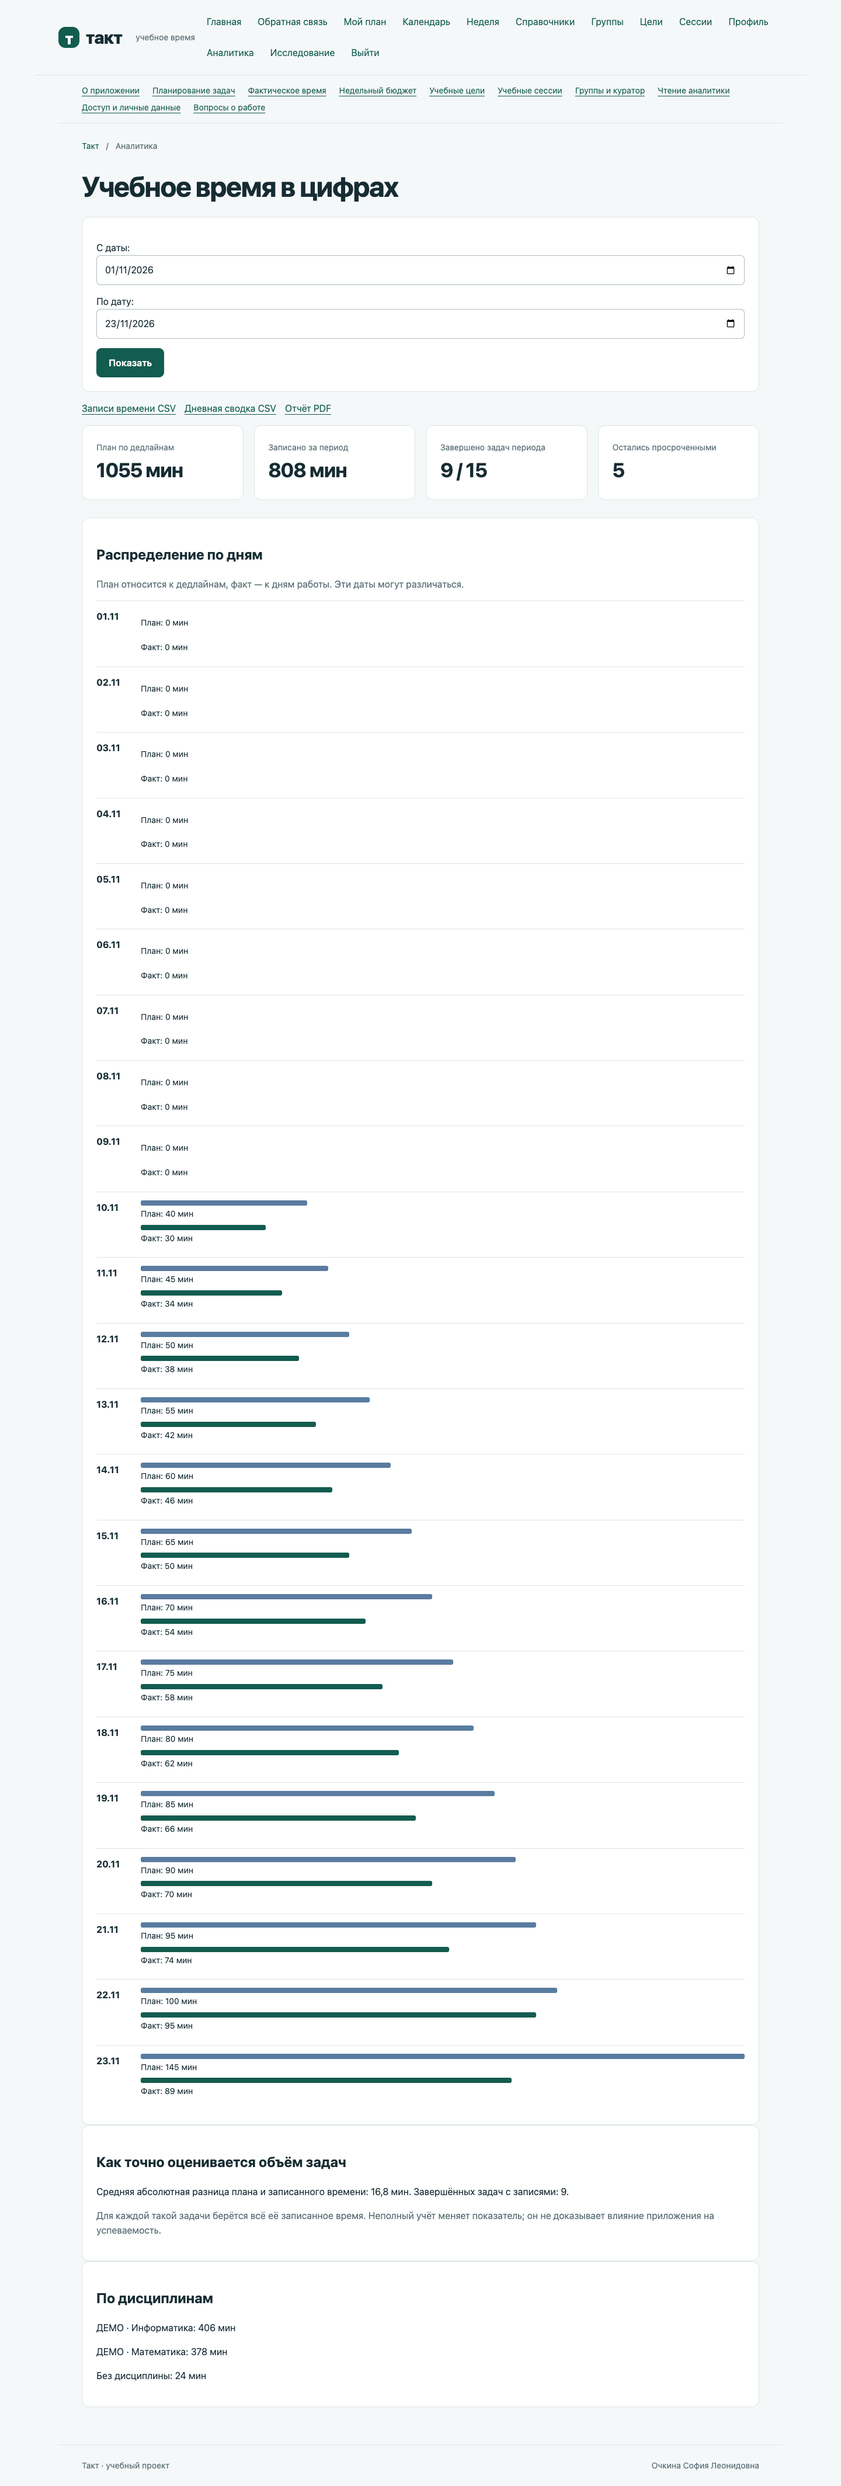
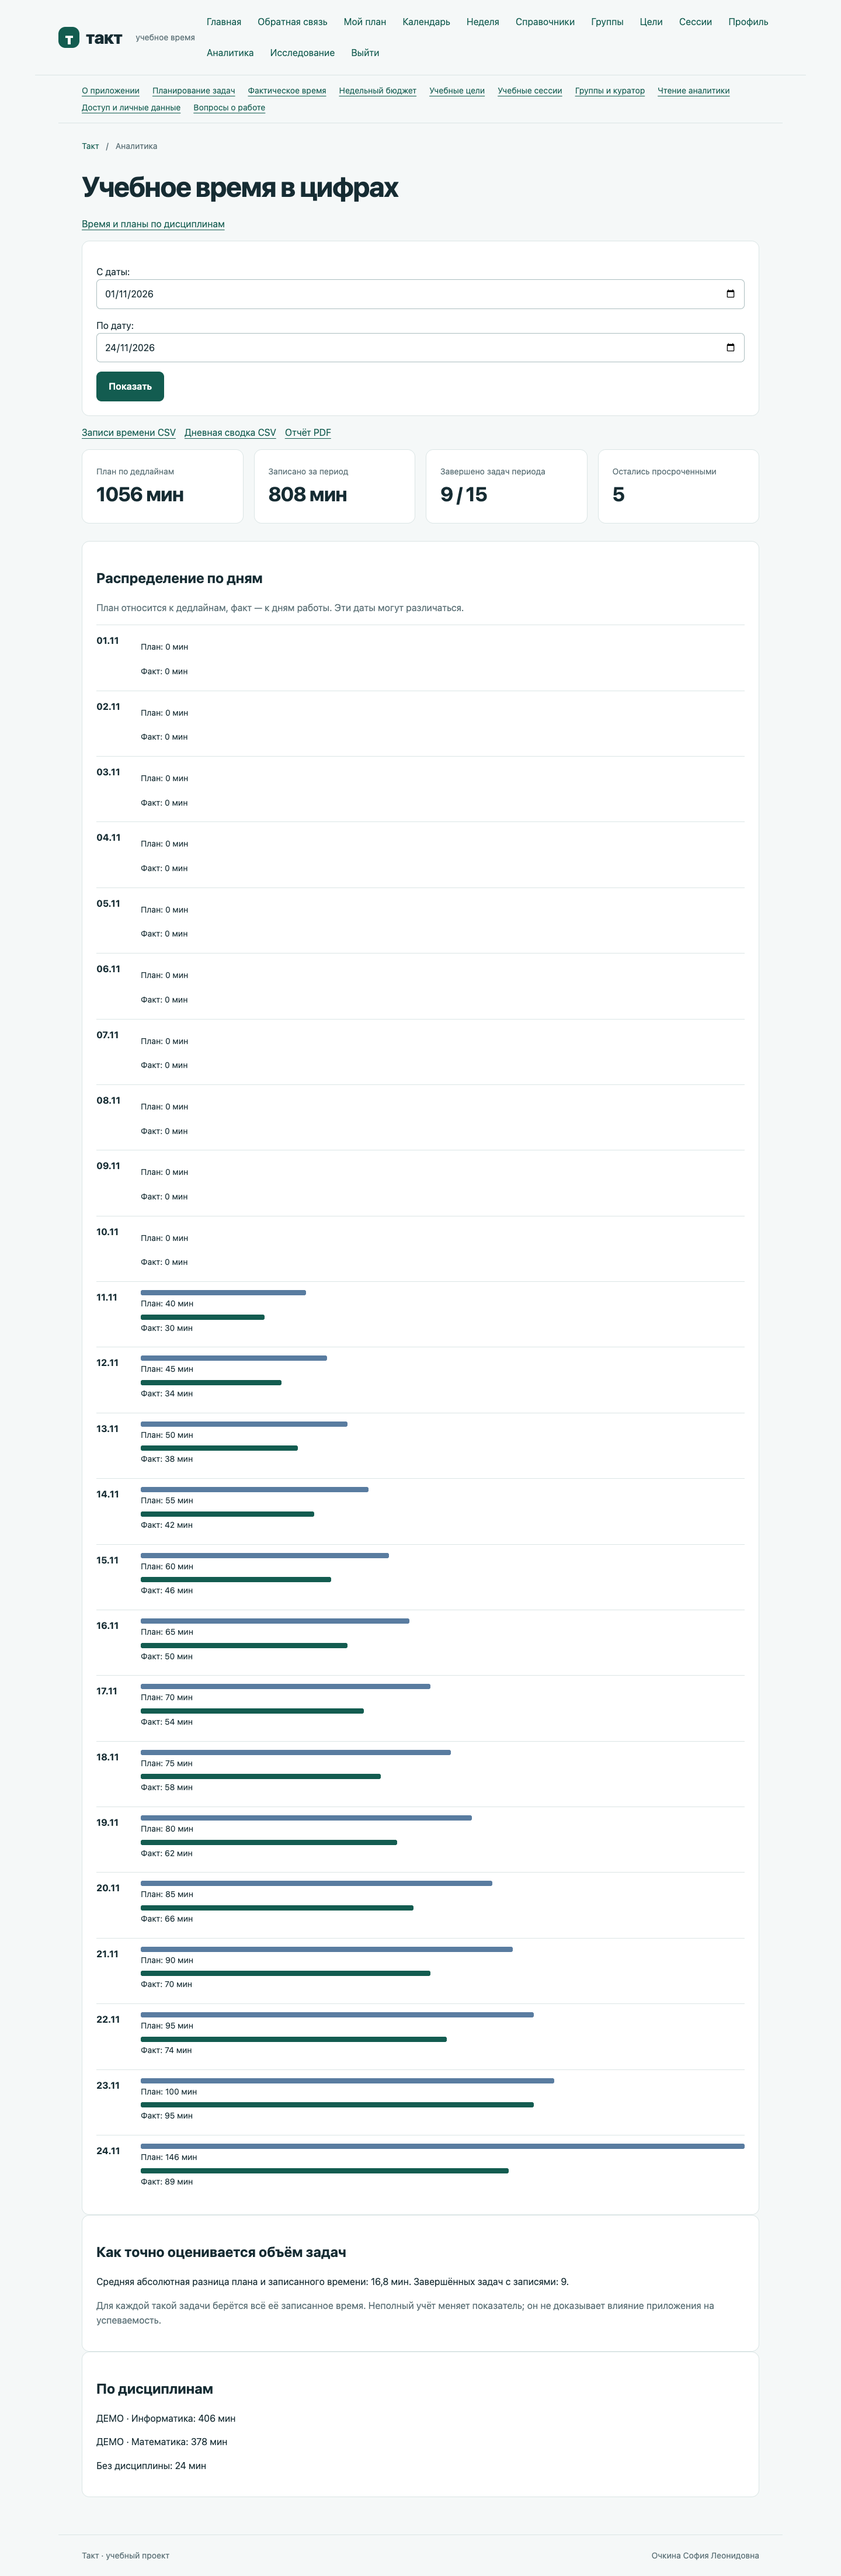
Проверить историю наблюдений и распределение времени в Chrome

diff --git a/planner/templates/planner/comparison.html b/planner/templates/planner/comparison.html
@@ -6,8 +6,9 @@
 {% if report %}<p>{% for period in report.periods %}{{ period.start|date:'d.m.Y' }}–{{ period.end|date:'d.m.Y' }}{% if not forloop.last %} и {% endif %}{% endfor %}</p>
 <a href="?{{ export_query }}">Скачать данные сравнения JSON</a>
 <div class="table-wrap" tabindex="0" role="region" aria-label="Сравнение; таблица прокручивается по горизонтали"><table><thead><tr><th>Показатель</th><th>Первый период</th><th>Второй период</th><th>Изменение</th><th>Изменение, %</th></tr></thead><tbody>{% for row in report.rows %}<tr><td>{{ row.label }}</td><td>{{ row.before|floatformat:2 }}</td><td>{{ row.after|floatformat:2 }}</td><td>{{ row.delta|floatformat:2 }}</td><td>{% if row.relative_percent is None %}Не определено: первое значение 0{% else %}{{ row.relative_percent|floatformat:2 }}{% endif %}</td></tr>{% endfor %}</tbody></table></div>
-<h2>События статусов задач</h2>
+<section class="card" id="status-history"><h2>События статусов задач</h2>
 <p>{% if report.history.first_observed_at %}Первый сохранённый переход: {{ report.history.first_observed_at|date:'d.m.Y H:i:s' }}.{% else %}Журнал пока не содержит переходов.{% endif %} Более ранняя история не восстановлена. Считаются переходы, включая повторные завершения одной задачи; удаление задачи не стирает событие.</p>
 <div class="table-wrap" tabindex="0" role="region" aria-label="Покрытие журнала статусов"><table><thead><tr><th>Период</th><th>Наблюдение</th><th>Завершений</th><th>Возвратов в план</th></tr></thead><tbody>{% for period in report.history.periods %}<tr><td>{{ period.start|date:'d.m.Y' }}–{{ period.end|date:'d.m.Y' }}</td><td>{{ period.coverage_label }}</td><td>{{ period.completions|default_if_none:'Нет данных' }}</td><td>{{ period.reopenings|default_if_none:'Нет данных' }}</td></tr>{% endfor %}</tbody></table></div>
 {% if report.history.comparable %}<p>Изменение завершений: {{ report.history.deltas.completions }}; возвратов в план: {{ report.history.deltas.reopenings }}.</p>{% else %}<p>Разница переходов не рассчитывается: полное наблюдение обоих периодов не подтверждено.</p>{% endif %}
+</section>
 <p>Отсутствие записи не доказывает отсутствие работы. Дедлайны и оценки задач показаны в их текущем состоянии, а не по историческому снимку. Различия могут объясняться нагрузкой, дисциплинами и полнотой учёта. Эти данные не устанавливают причинный эффект приложения и не измеряют качество знаний.</p>{% endif %}{% endblock %}

diff --git a/scripts/verify_browser.py b/scripts/verify_browser.py
@@ -1,5 +1,7 @@
 """Реальный Chrome в изолированной копии приложения с вымышленными данными."""
 import argparse
+import csv
+import io
 from datetime import date, datetime, timedelta
 import re
 from zoneinfo import ZoneInfo
@@ -109,22 +111,50 @@ def verify(app_python, output):
                     page.get_by_role('link',name='История статусов задач',exact=True).click();page.wait_for_url('**/tasks/history/')
                     assert page.get_by_role('heading',name='Браузерная учебная задача',exact=True).count()==2
                     shot('history-desktop.png');checks.append('state_history_and_stale_form')
+                    visit(f'/tasks/{task_id}/edit/')
+                    editing=page.locator('main form').evaluate('(form)=>Object.fromEntries(new FormData(form))')
+                    page.locator('#id_planned_minutes').fill('41');page.get_by_role('button',name='Сохранить',exact=True).click();page.wait_for_url('**/tasks/')
+                    stale_edit=context.request.post(url+f'/tasks/{task_id}/edit/',form={**editing,'planned_minutes':'42'},headers={'Referer':url+f'/tasks/{task_id}/edit/'})
+                    assert stale_edit.status==200 and 'уже изменилась' in stale_edit.text()
+                    visit(f'/tasks/{task_id}/edit/');assert page.locator('#id_planned_minutes').input_value()=='41'
+                    checks.append('old_editor_cannot_overwrite_newer_task')
+                    visit('/research/')
+                    with page.expect_download() as result:page.get_by_role('link',name='Скачать данные сравнения JSON',exact=True).click()
+                    history_json=target/'history-comparison.json';result.value.save_as(history_json)
+                    observed=json.loads(history_json.read_text())['history']
+                    assert not observed['comparable'] and observed['periods'][1]['coverage']=='partial'
+                    assert observed['periods'][1]['completions']==1 and observed['periods'][1]['reopenings']==1
+                    page.locator('#status-history').screenshot(path=str(output/'research-history-desktop.png'));screenshots.append('research-history-desktop.png')
+                    checks.append('observed_history_export_without_historical_zeros')
                     visit('/analytics/');shot('analytics-desktop.png')
                     with page.expect_download() as result:page.get_by_role('link',name='Отчёт PDF',exact=True).click()
                     pdf=output/'study-browser.pdf';result.value.save_as(pdf);assert pdf.read_bytes().startswith(b'%PDF-');checks.append('pdf_download')
+                    visit('/analytics/')
+                    page.get_by_role('link',name='Время и планы по дисциплинам',exact=True).click()
+                    empty_subject=page.locator('article').filter(has=page.get_by_role('heading',name='Без дисциплины',exact=True))
+                    assert 'Записано 24 мин' in empty_subject.inner_text();shot('subjects-desktop.png')
+                    with page.expect_download() as result:page.get_by_role('link',name='Скачать все дисциплины CSV',exact=True).click()
+                    subjects_csv=target/'subjects.csv';result.value.save_as(subjects_csv)
+                    subjects=list(csv.DictReader(io.StringIO(subjects_csv.read_text(encoding='utf-8-sig')),delimiter=';'))
+                    assert next(row for row in subjects if row['type']=='subject' and row['subject_id']=='')['actual']=='24'
+                    empty_subject.get_by_role('link',name='Все задачи этой дисциплины',exact=True).click()
+                    assert page.locator('article.task').count()==1
+                    checks.append('subject_distribution_csv_and_null_drilldown')
                     visit('/calendar/');assert 'Браузерная учебная задача' in page.locator('main').inner_text();shot('calendar-desktop.png')
                     with page.expect_download() as result:page.get_by_role('link',name='Скачать месяц iCalendar',exact=True).click()
                     ics=output/'study-browser.ics';result.value.save_as(ics);assert b'BEGIN:VCALENDAR' in ics.read_bytes();checks.append('calendar_and_ics_download')
                     for path in ['/week/','/goals/','/groups/','/references/','/profile/','/research/']:visit(path)
                     checks.append('private_navigation')
                     page.set_viewport_size({'width':390,'height':844})
-                    for path,name in [('/tasks/','tasks-mobile.png'),('/calendar/','calendar-mobile.png'),('/research/','research-mobile.png'),('/workload/','workload-mobile.png'),('/tasks/history/','history-mobile.png')]:
+                    for path,name in [('/tasks/','tasks-mobile.png'),('/calendar/','calendar-mobile.png'),('/research/','research-mobile.png'),('/workload/','workload-mobile.png'),('/tasks/history/','history-mobile.png'),('/analytics/subjects/','subjects-mobile.png')]:
                         visit(path)
                         if path=='/research/':
                             assert page.locator('#id_after_end').input_value()==date.today().isoformat()
                             page.get_by_role('button',name='Сравнить',exact=True).click()
                             assert 'Изменение' in page.locator('main').inner_text()
                         shot(name)
+                        if path=='/research/':
+                            page.locator('#status-history').screenshot(path=str(output/'research-history-mobile.png'));screenshots.append('research-history-mobile.png')
                         dimensions=page.evaluate('({width:document.documentElement.clientWidth,scroll:document.documentElement.scrollWidth})')
                         assert dimensions['scroll']<=dimensions['width']+1,(path,dimensions)
                     checks.append('mobile_390_layout');assert not errors,errors;checks.append('no_browser_page_errors')

diff --git a/scripts/audit_requirements.py b/scripts/audit_requirements.py
@@ -40,7 +40,7 @@ def audit():
         'application_models':models,'domain_table_count':sum(row['model'] not in technical for row in models),'technical_models':sorted(technical),
         'public_guides':[{'path':'/guide/'+row[0]+'/','title':row[1]} for row in [(slug,data['title']) for slug,data in PUBLIC_PAGES.items()]],
         'staff_pages':[{'path':path,'title':title} for path,title in [('/cabinet/','Обзор'),('/cabinet/users/','Аккаунты'),('/cabinet/groups/','Группы'),('/cabinet/catalog/subjects/','Дисциплины'),('/cabinet/catalog/categories/','Категории'),('/cabinet/time/','Качество учёта'),('/cabinet/feedback/','Обращения')]],
-        'private_pages':['/tasks/','/week/','/calendar/','/references/','/groups/','/goals/','/sessions/','/profile/','/analytics/','/research/','/tasks/history/','/workload/'],
+        'private_pages':['/tasks/','/week/','/calendar/','/references/','/groups/','/goals/','/sessions/','/profile/','/analytics/','/research/','/tasks/history/','/workload/','/analytics/subjects/'],
         'roles':['student','curator','staff'],'limitations':['Counts describe source structure, not semantic correctness. Formal logical-line counting and report formatting require the supervisor’s accepted method.']}
     target=ROOT/'reports/requirements-audit-v1.json';target.write_text(json.dumps(result,ensure_ascii=False,indent=2)+'\n')
     print(json.dumps({k:result[k] for k in ['mixed_code_units','domain_table_count','technical_models']},ensure_ascii=False))

diff --git a/docs/ACCEPTANCE.md b/docs/ACCEPTANCE.md
@@ -13,3 +13,5 @@
 Временная копия получает пустую базу и вымышленный личный аккаунт. Chrome157 проходит формы входа/задачи/ручного времени, создаёт и завершает сессию, загружает и скачивает приватный TXT, получает PDF и iCalendar. Проверка в базе подтверждает ровно24 минуты новой задачи (7 ручных +17 сессии). Семь личных разделов открываются; месячный календарь и исследовательская форма проверены на ширинах1440/390. Исправлены пустые HTML-поля дат и выход таблицы сравнения за экран. Все шесть снимков reports/local-visual-v1 просмотрены. Таблица сравнения доступна с клавиатуры и прокручивается внутри своего блока. Это один браузер/демосценарий; полный аудит доступности и совместимости не заявляется. Личные файлы, аккаунты и исходная БД не копируются, свои сервер и браузер завершаются.
 
 Новый цикл Chrome:14 проверок, включая точный повтор POST времени (остаётся одна запись), остаток40−7−17=16 минут, завершение/возврат задачи, отклонение устаревшей команды и два события истории. Новые экраны проверены при1440 и390px, четыре снимка просмотрены. Все85 тестов SQLite проходят (один PostgreSQL-сценарий пропущен); весь набор затем прошёл на PostgreSQL16.14, см. POSTGRESQL.md. Аудит:1876 смешанных единиц исходников, формальный порог2000 остаётся открытым.
+
+24ноября:93 тестаSQLite пройдены(одинPGskip), миграции согласованы. Chrome17 сценариев проверили неизменяемый24-минутный итог, старую форму редактора, фактическую историю с частичным покрытием вJSON и распределение по дисциплинам/CSV/null-переход. Четыре новые desktop/mobile-области просмотрены. Аудит2019 смешанных единиц/13предметных таблиц; формальная оценка логических строк отдельно. Новые сценарии вPG в этом блоке пока не повторялись.

diff --git a/docs/REQUIREMENTS.md b/docs/REQUIREMENTS.md
@@ -28,4 +28,4 @@
 
 Это первый этап. Реализацию всех обязательных пунктов сверяем перед сдачей.
 
-Актуальная архитектура и проверяемая матрица: ARCHITECTURE.md, reports/requirements-audit-v1.json. Консервативный подсчёт1876 единицы пока ниже2000; таблицы/страницы/роли проверяются отдельно. Локальный браузерный цикл воспроизведён в ACCEPTANCE.md. Исследование на реальных студентах не выдаётся за выполненное.
+Актуальная архитектура и проверяемая матрица: ARCHITECTURE.md, reports/requirements-audit-v1.json. Смешанный подсчёт2019 единиц проходит2000 по этому техническому методу, согласование формального определения логической строки остаётся открытым; таблицы/страницы/роли проверяются отдельно. Локальный браузерный цикл воспроизведён в ACCEPTANCE.md. Исследование на реальных студентах не выдаётся за выполненное.
